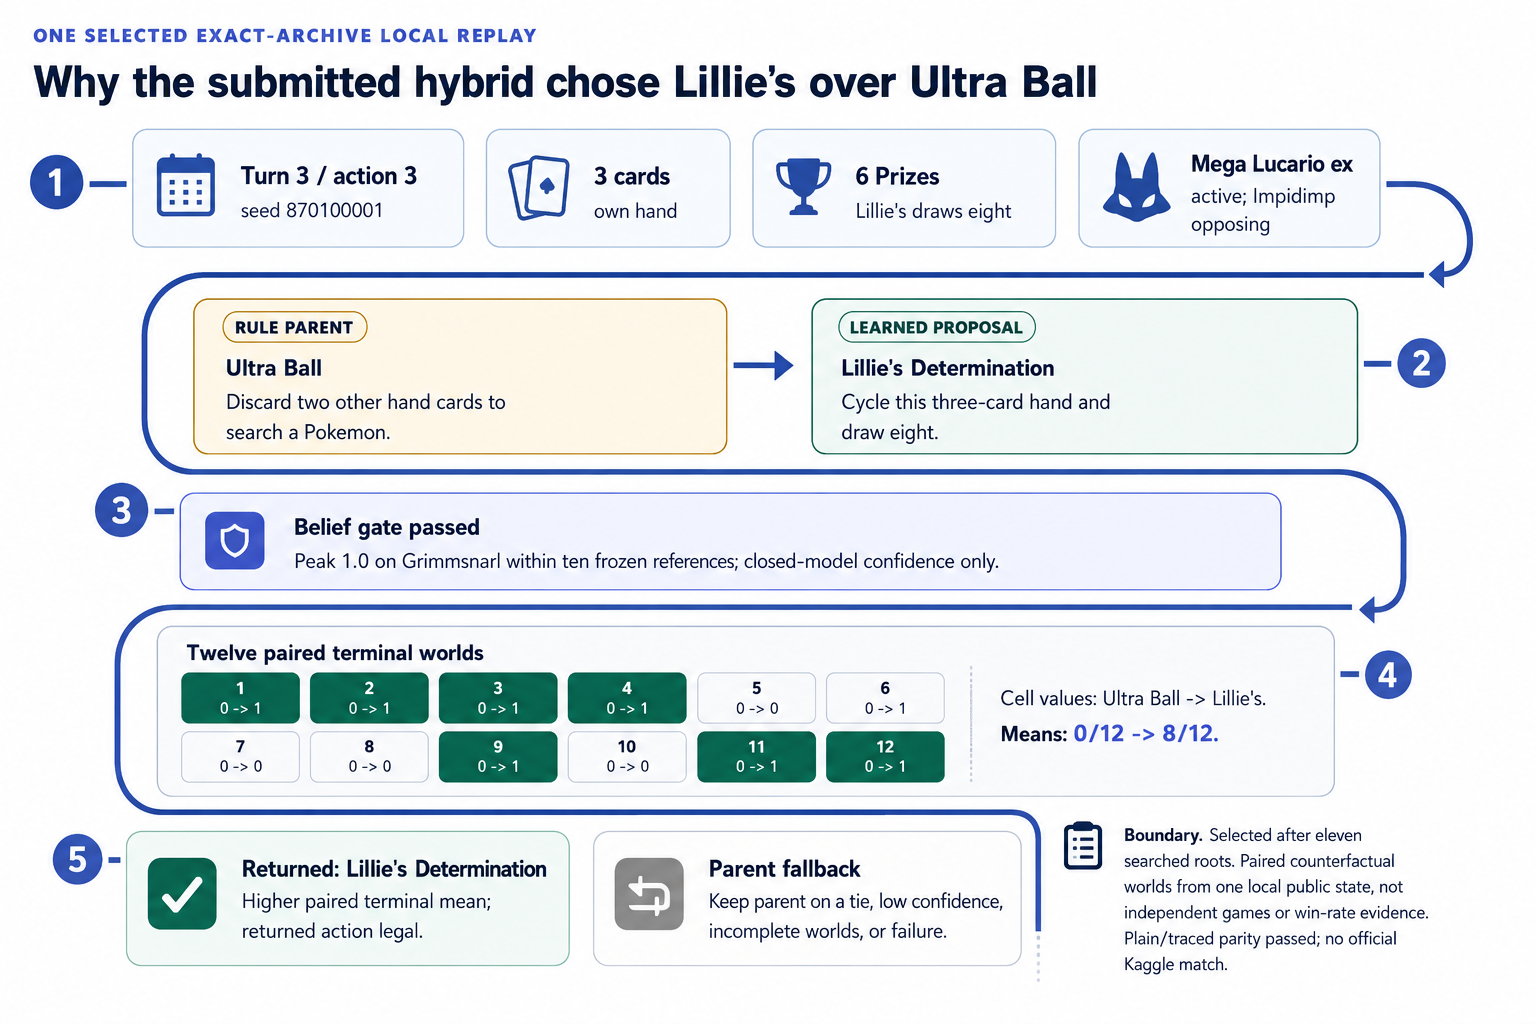
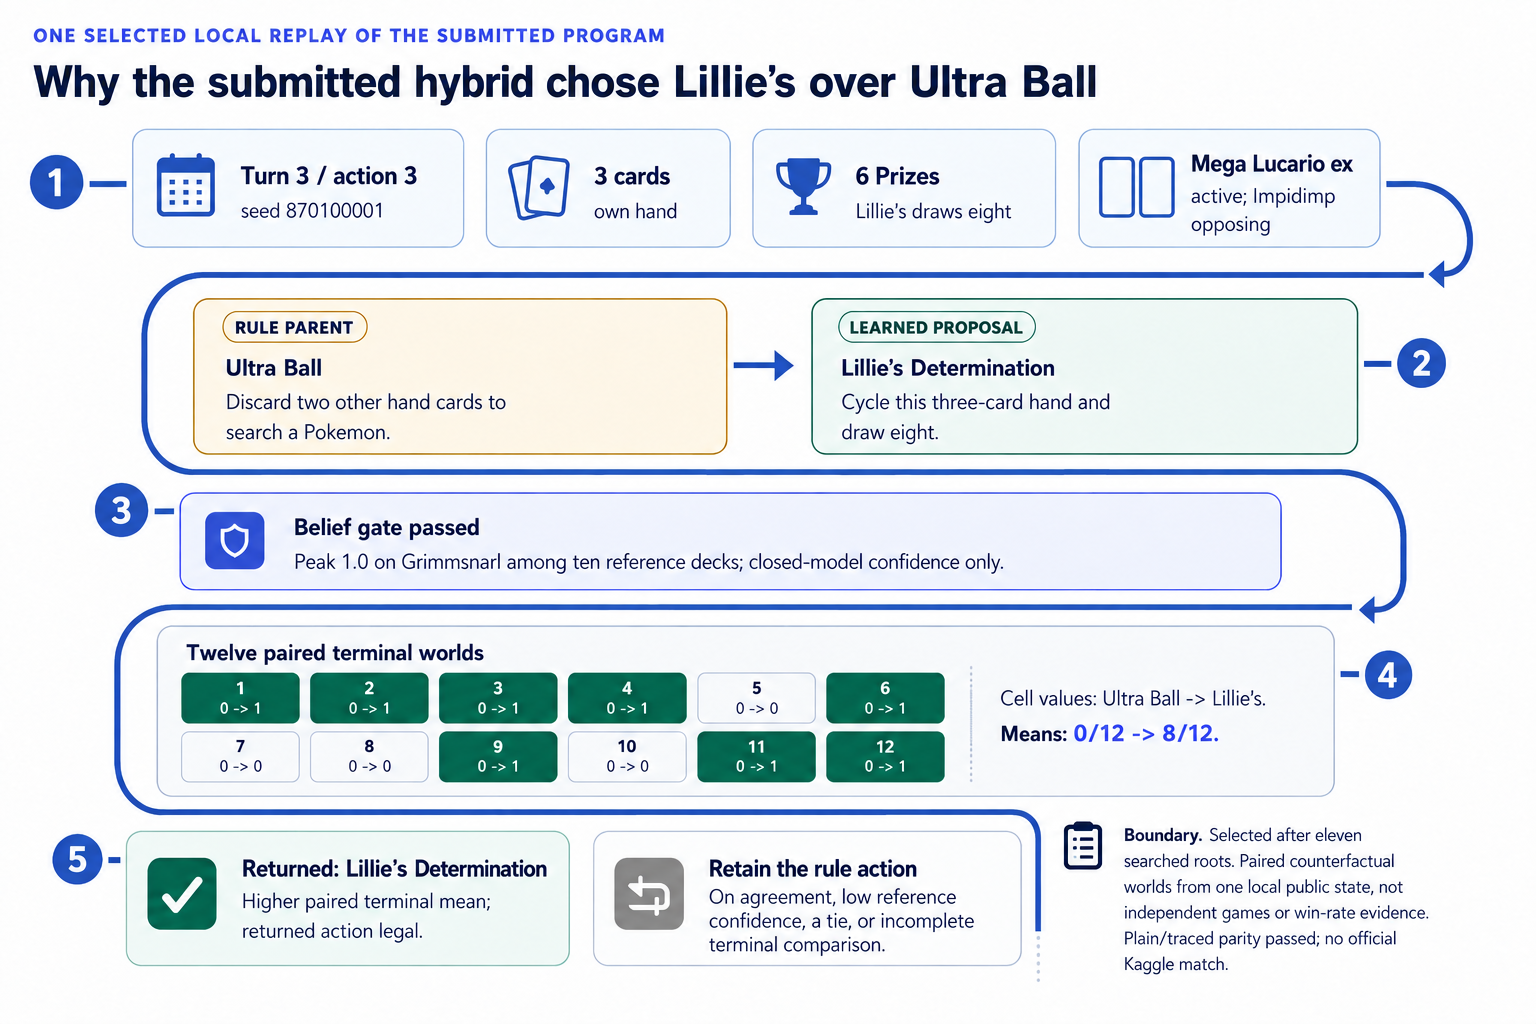
docs: synchronize final writeup corrections and decision trace
Clarify Simulation timing and baseline terminology in Japanese, correct the inline trace's outcome colour and retention boundaries, remove its character-like icon, and align the Team Rocket Mewtwo / Spidops alias. Preserve measured values and the three gallery diagrams. Bind edition 8 to the saved English revision.

diff --git a/WRITEUP_JA.md b/WRITEUP_JA.md
@@ -28,7 +28,7 @@ Alessandro Flati and Roberto Mastropietro
 
 メガブレイブは270ダメージだが、次の番に続けて使えない。はどうづきは使える。「にげる」でベンチに下がり、ポケモンいれかえで戻すと、この制限は解除される。ミツルの思いやりでダメージを回復した場合に限り、ついているエネルギーをすべて手札に戻す。このカードはワザの制限を解除しない。ボスの指令とハリテヤマは相手のベンチポケモンを呼び出す。ハイパーボールはメガルカリオexを探せるが、ポケパッドはルールを持つポケモンを対象にできない。ファイトゴングはたねの闘ポケモンまたは基本【闘】エネルギーを探す。ジャッジマンは両者の手札を四枚にし、リーリエの決心は自分の手札を引き直す。ヒーローマントは効果が無効化されていなければHPを100増やすが、単独の有効性は測定していない。
 
-パワープロテインは一枚ごとに30ダメージを加えるため、弱点・抵抗力の適用前のメガブレイブは270/300/330/360/390に達する。方策は、きぜつに必要なダメージに届く場合に追加で使用し、ダメージを受けない効果に対する使用は別の条件で抑制する。抵抗力とダメージ無効化は異なる。修正済みルール方策から、このきぜつ判定のルールを除いたところ、ローカルのブリジュラス対戦相手に対する4,800組の均衡した対応付き対戦で3.833パーセントポイント低下した（対応付き標準誤差0.574、六ブロックすべてでルール保持側が正）。これは、その対戦条件でのルールを支持する結果であり、カード枚数の大域的最適性や、ハイブリッド全体の改善に占める寄与を示すものではない。
+パワープロテインは一枚ごとに30ダメージを加えるため、弱点・抵抗力の適用前のメガブレイブは270/300/330/360/390に達する。方策は、きぜつに必要なダメージに届く場合に追加で使用し、ダメージを受けない効果に対する使用は別の条件で抑制する。抵抗力とダメージ無効化は異なる。[ダメージ処理を修正したルール方策](RESEARCH.md#what-the-evidence-supports)から、このきぜつ判定のルールを除いたところ、ローカルのブリジュラス対戦相手に対する4,800組の均衡した対応付き対戦で3.833パーセントポイント低下した（対応付き標準誤差0.574、六ブロックすべてでルール保持側が正）。これは、その対戦条件でのルールを支持する結果であり、カード枚数の大域的最適性や、ハイブリッド全体の改善に占める寄与を示すものではない。
 
 ## 提出モデル：提案、比較、実行
 
@@ -50,15 +50,15 @@ Alessandro Flati and Roberto Mastropietro
 
 提出アーカイブをローカルで再生した一つの選定事例では、メガルカリオexがマリィのベロバーと対面し、手札は三枚、残りサイドは六枚だった。ルール方策はハイパーボールを提案した。その二枚をトラッシュするコストは、残りの手札をすべて消費する。ネットワークは、手札を山札に戻し、サイドが六枚なら八枚引くリーリエの決心を提案した。探索は、狙ったポケモンへのアクセスと手札の補充を比較した。
 
-<img src="https://www.googleapis.com/download/storage/v1/b/kaggle-user-content/o/inbox%2F6252710%2F67ee3daacbd8a4d9dd87ab6d59ece6ae%2Fv2_trace_snake_wide.png?generation=1788540457593390&amp;alt=media" width="980" style="max-width:100%;height:auto" alt="二つの提案を十二通りの終局比較にかける。リーリエの決心は8/12、ハイパーボールは0/12。">
+<img src="https://www.googleapis.com/download/storage/v1/b/kaggle-user-content/o/inbox%2F6252710%2F15cb6748237fd34a3fbff9f9172846dc%2Fv2_trace_snake_wide.png?generation=1789323432611906&amp;alt=media" width="980" style="max-width:100%;height:auto" alt="二つの提案を十二通りの終局比較にかける。リーリエの決心は8/12、ハイパーボールは0/12。">
 
-**図1。** 十種類の参照デッキの範囲内で、相手の信念分布はマリィのオーロンゲに1.0で集中した。ハイパーボールは0/12、リーリエの決心は8/12となり、後者を実行した。後のメガブレイブと「にげる」の比較は10/12で同点となり、ルール側のワザを維持した。これらは選定した事例であり、一般的なカードの優劣や、独立した対戦の勝率を示すものではない。通常再生と計測付き再生の結果は一致した。
+**図1。** [原寸の図](https://www.googleapis.com/download/storage/v1/b/kaggle-user-content/o/inbox%2F6252710%2F15cb6748237fd34a3fbff9f9172846dc%2Fv2_trace_snake_wide.png?generation=1789323432611906&alt=media)。十種類の参照デッキの範囲内で、相手の信念分布はマリィのオーロンゲに1.0で集中した。ハイパーボールは0/12、リーリエの決心は8/12となり、後者を実行した。後のメガブレイブと「にげる」の比較は10/12で同点となり、ルール側のワザを維持した。これらは選定した事例であり、一般的なカードの優劣や、独立した対戦の勝率を示すものではない。通常再生と計測付き再生の結果は一致した。
 
 ## 完全な対戦による評価と公式成績
 
 Simulation部門の提出エージェントの最終成績は**282位、938.7点**だった。以下は、提出したハイブリッドと、同じデッキを使う正確なルール・優先順位ベースラインをローカルで比較した結果である。他の参加者との比較でも、学習と探索の効果を分離する実験でもない。アーカイブと重みの同一性を確認した。
 
-一組は、同じ対戦相手、同じ乱数シード、同じプレイヤー位置を用いた二つの完全な対戦からなる。位置0/1はシミュレーターのスロットであり、必ずしも先攻・後攻ではない。十種類の対戦相手プログラムは、8月7日に出力した三日間の収集ゲーム標本の78.0%に相当するデッキタイプを表す。各評価で過去のデッキ頻度による重みを維持し、このカバー範囲内で再正規化した。コンペ全体の分布を表すものでも、実際の各対戦相手を忠実に再現した証拠でもない。表2は、パーセントポイント単位の改善量（pp）と対応付き標準誤差（SE）を示す。
+一組は、同じ対戦相手、同じ乱数シード、同じプレイヤー位置を用いた二つの完全な対戦からなる。位置0/1はシミュレーターのスロットであり、必ずしも先攻・後攻ではない。十種類の対戦相手プログラムは、8月7日に出力した三日間の収集ゲーム標本の78.0%に相当するデッキタイプを表す。各評価で過去のデッキ頻度による重みを維持し、このカバー範囲内で再正規化した。コンペ全体の分布を表すものでも、実際の各対戦相手を忠実に再現した証拠でもない。ここでいう締切はSimulation部門の提出締切を指す。表2は、パーセントポイント単位の改善量（pp）と対応付き標準誤差（SE）を示す。
 
 | 段階 | 対応付き対戦の組数 | 対戦相手ごとの位置0/1 | 加重改善量 (pp) | 対応付き標準誤差 (pp) | 改善/悪化/同一の組数 |
 |---|---:|---:|---:|---:|---:|
@@ -77,14 +77,14 @@ Simulation部門の提出エージェントの最終成績は**282位、938.7点
 | 仮説 | 反証可能な基準と試験 | 観測 | 判断 |
 |---|---|---|---|
 | 提案と探索の組み合わせはベースラインを改善する | 対応付きの完全な対戦、その後に重複しないシードで確認 | 記載したローカル条件で確認区間が正 | 組み合わせを支持するが、構成要素別の寄与は分離しない |
-| 広い探索は実行時間に見合う | 80組の初期評価、事前設定した内部p95/最大値の上限12.5/20秒 | 初期評価は良好、実測13.71/46.73秒 | 提出前に棄却 |
+| 広い探索は実行時間に見合う | 80組の初期評価、事前設定した内部95パーセンタイル/最大値の上限12.5/20秒 | 初期評価は良好、実測13.71/46.73秒 | 提出前に棄却 |
 | 豊富な特徴を持つ模倣モデルは対戦試験へ進める | 保留データ全体の精度と、事前に定めたサブグループの精度低下上限3.0ポイント | 全体+2.36、ドラパルトで3.046ポイント低下 | 対戦試験前に棄却 |
 
 **表3。** 時間上限は私たちの工学的な基準であり、公式の一手当たり制限ではない。模倣モデルの判断には事前に定めた閾値を適用した。模倣精度は対戦の強さそのものではない。
 
 研究全体では、学習した価値推定、方策選択器、後悔最小化を試した。記録された結果の予測は、代替行動を有効に順位付けできる証拠にはならなかった。事後的に最善の方策を選ぶことも、実運用できる選択器にはつながらなかった。深層反実仮想後悔最小化（Deep CFR）の実験系で後悔を更新したのはATTACK/RETREAT/ENDに限られる。これらの研究では提案の質、行動の順位付け、実運用への適合性を分けて扱う。採用しなかった手法は、提出ハイブリッドには組み込んでいない。
 
-## 提出後の学習：別系統のルカリオ方策
+## Simulation部門への提出後の学習：別系統のルカリオ方策
 
 同じ60枚のデッキで、提出ハイブリッドとは別のリプレイ模倣ベースラインを初期値として、再帰型V-traceを学習した。ゲート付き再帰ユニットが直近の自分の行動を要約し、過去のロールアウト方策に対する補正をクリップしたActor-Critic更新によって、終局時の結果から学習する。固定した最終評価用の5,000組のローカル対戦で、勝率は45.68%対32.28%だった。負け/引き分け/勝ちを-1/0/+1とする報酬では、平均改善量は+0.2686（ブートストラップ95%区間+0.2384から+0.2992）だった。両位置と十種類すべての対戦相手グループで改善量が正となり、両方策とも違法行動やタイムアウトを記録しなかった。ここでは対戦相手を均等に重み付けしており、ハイブリッドの評価とは異なる。
 
@@ -96,7 +96,7 @@ Simulation部門の提出エージェントの最終成績は**282位、938.7点
 
 まず処理全体のコストを測り、GPUでの行動一致を確認し、対応する乱数を維持したまま、独立したシミュレーションワーカーを並列化する。累積思考時間に合わせて探索予算を配分し、後の番に使う時間を確保する。再学習前には、既知の学習時・実行時のダメージ特徴量の不一致を修正する。この不一致が対戦結果に与える影響は未測定である。次に探索を固定し、強化学習方策を提案元として試す。また、補完状態数を変えたり、判断が難しい不一致に追加の探索を割り当てたりする。標本数を増やせば、モデル内のシミュレーションノイズは減らせるが、モデル自体の誤りは直せない。
 
-ルールのみ、模倣のみ、再帰型強化学習のみ、ハイブリッドを、対戦数と実時間の予算を揃え、別途強さを確認した同一デッキの比較対象に対して評価する。探索を使わない強化学習は不可欠な比較対象であり、提案元が強くなれば探索が不要になる可能性もある。不確実性、不利な対戦相手、実行時間の基準を試験前に固定する。対戦相手の範囲を広げ、決勝ラウンドのカードプールを検証する。基準に届かない変更は棄却し、最後に採用した組み合わせを維持する。開発時の学習には別途利用可能な計算資源が必要であり、大会中のGPU時間を使えるとは仮定しない。
+ルール・優先順位ベースライン、模倣のみ、再帰型強化学習のみ、ハイブリッドを、対戦数と実時間の予算を揃え、別途強さを確認した同一デッキの比較対象に対して評価する。探索を使わない強化学習は不可欠な比較対象であり、提案元が強くなれば探索が不要になる可能性もある。不確実性、不利な対戦相手、実行時間の基準を試験前に固定する。対戦相手の範囲を広げ、決勝ラウンドのカードプールを検証する。基準に届かない変更は棄却し、最後に採用した組み合わせを維持する。開発時の学習には別途利用可能な計算資源が必要であり、大会中のGPU時間を使えるとは仮定しない。
 
 三本勝負では、公式に提供される前のゲームのログによって、履歴を使わない比較対象より後続ゲームの判断を改善できるかを試す。公開情報だけを使うこと、同一マッチ内での状態保持、別マッチ間でのリセット、時間制限を確認する。この適応機構は提出版には実装していない。Round 2全体を通じて、一つのデッキと一つのプログラムを固定しなければならない。
 

diff --git a/RESEARCH.md b/RESEARCH.md
@@ -64,7 +64,7 @@ Card mechanics were checked against the retained competition card-data rows for 
 | Question | Intervention / falsifier | Evidence | Consequence and scope |
 |---|---|---|---|
 | Does the combined policy improve the exact baseline? | Complete-game paired comparison with the same deck, opponent, seed and simulator slot | Final confirmation: 500 pairs; weighted gain +12.587 points, SE 4.026 | Supports the combination locally; no isolated learning/search effect |
-| Does broader search earn its runtime? | Pre-set internal p95/max criteria of 12.5/20 seconds, alongside an 80-pair development screen | Favorable screen; p95 13.71 and max 46.73 seconds | Rejected before submission; a selected screen does not prove a globally stronger candidate |
+| Does broader search earn its runtime? | Pre-set internal 95th-percentile/maximum criteria of 12.5/20 seconds, alongside an 80-pair development screen | Favorable screen; 95th percentile 13.71 and maximum 46.73 seconds | Rejected before submission; a selected screen does not prove a globally stronger candidate |
 | Does richer imitation deserve gameplay testing? | Overall action-set accuracy and a predeclared 3.0-point subgroup-loss limit | +2.36 points overall; -3.046 on Dragapult | Rejected before gameplay testing; exceeding the limit by 0.046 points enforces the decision rule, but does not establish a statistically meaningful accuracy loss or a playing-strength loss |
 | Does a knockout predicate change outcomes? | Remove the corrected baseline's Premium Power Pro knockout rule | 4,800 balanced Archaludon pairs; retained rule +3.833 points, SE 0.574 | Supports that predicate under this opponent protocol; does not prove optimal card counts |
 | Can recurrent reinforcement learning (RL) improve replay imitation? | Separate checkpoint selection and locked complete-game comparison | Lucario: 5,000 pairs; mean terminal-reward gain +0.2686 | Local learning evidence against replay behavioral cloning (BC), not an improved official result or demonstrated hybrid upgrade |

diff --git a/GALLERY.md b/GALLERY.md
@@ -26,4 +26,8 @@ The submitted deck links hand development to attacker preparation: with Solrock 
 
 [Full-resolution image](deck_resources.png) | [Editable vector](deck_resources.svg).
 
+## Inline decision trace
+
+[Open the full-resolution decision trace](v2_trace_snake_wide.png) to inspect the labels with zoom. The selected replay compares Ultra Ball and Lillie's Determination in twelve paired hidden-state completions, not twelve independent matches. The eight green cells show 0-to-1 outcomes; the four white cells show 0-to-0 outcomes. The rule action is retained on agreement, low reference confidence, ties or incomplete terminal comparisons. This is not a universal exception-safety guarantee; [failure handling](RESEARCH.md#exact-boundaries-of-the-submitted-decision-rule) has distinct layers.
+
 The diagrams contain no official card artwork or reconstructed gameplay footage. Hypothetical future work is labelled as proposed. See the [scope notice](NOTICE.md) and [version identity](VERSION.json).

diff --git a/EVALUATION.md b/EVALUATION.md
@@ -56,7 +56,7 @@ Every row has 50 pairs, with 25 in each simulator player slot. There were no dra
 | Marnie's Grimmsnarl | 0.415816326531 | 28 | 22 | 12 / 6 / 32 |
 | Mega Lucario ex | 0.040666266507 | 38 | 34 | 9 / 5 / 36 |
 | Mega Starmie | 0.004801920768 | 46 | 48 | 0 / 2 / 48 |
-| Team Rocket Mewtwo | 0.017557022809 | 49 | 46 | 3 / 0 / 47 |
+| Team Rocket Mewtwo / Spidops | 0.017557022809 | 49 | 46 | 3 / 0 / 47 |
 
 For each row, let b and l be the better and worse counts. Because these games have no draws, mean(d) = (b - l) / 50 and sample_variance(d) = (b + l - 50 * mean(d)^2) / 49. Substitute these and w into the estimator above to recover +12.5867346939 points and SE 4.0255053039, up to the printed weights' rounding. For example, Alakazam/Dunsparce has mean(d) = (8 - 5) / 50 = 0.06 and sample variance (13 - 50 * 0.06^2) / 49. This count shortcut would need modification if paired differences could include half-points from draws.
 

diff --git a/LEARNING.md b/LEARNING.md
@@ -70,7 +70,7 @@ The mean difference can be recovered from each arm's (wins - losses) / 5,000. On
 |---|---:|---:|
 | Archaludon | 500 | +0.192 |
 | Dudunsparce / Mega Lopunny | 500 | +0.508 |
-| Spidops | 500 | +0.300 |
+| Team Rocket Mewtwo / Spidops | 500 | +0.300 |
 | Starmie | 500 | +0.166 |
 | Alakazam | 500 | +0.332 |
 | Crustle | 500 | +0.170 |
